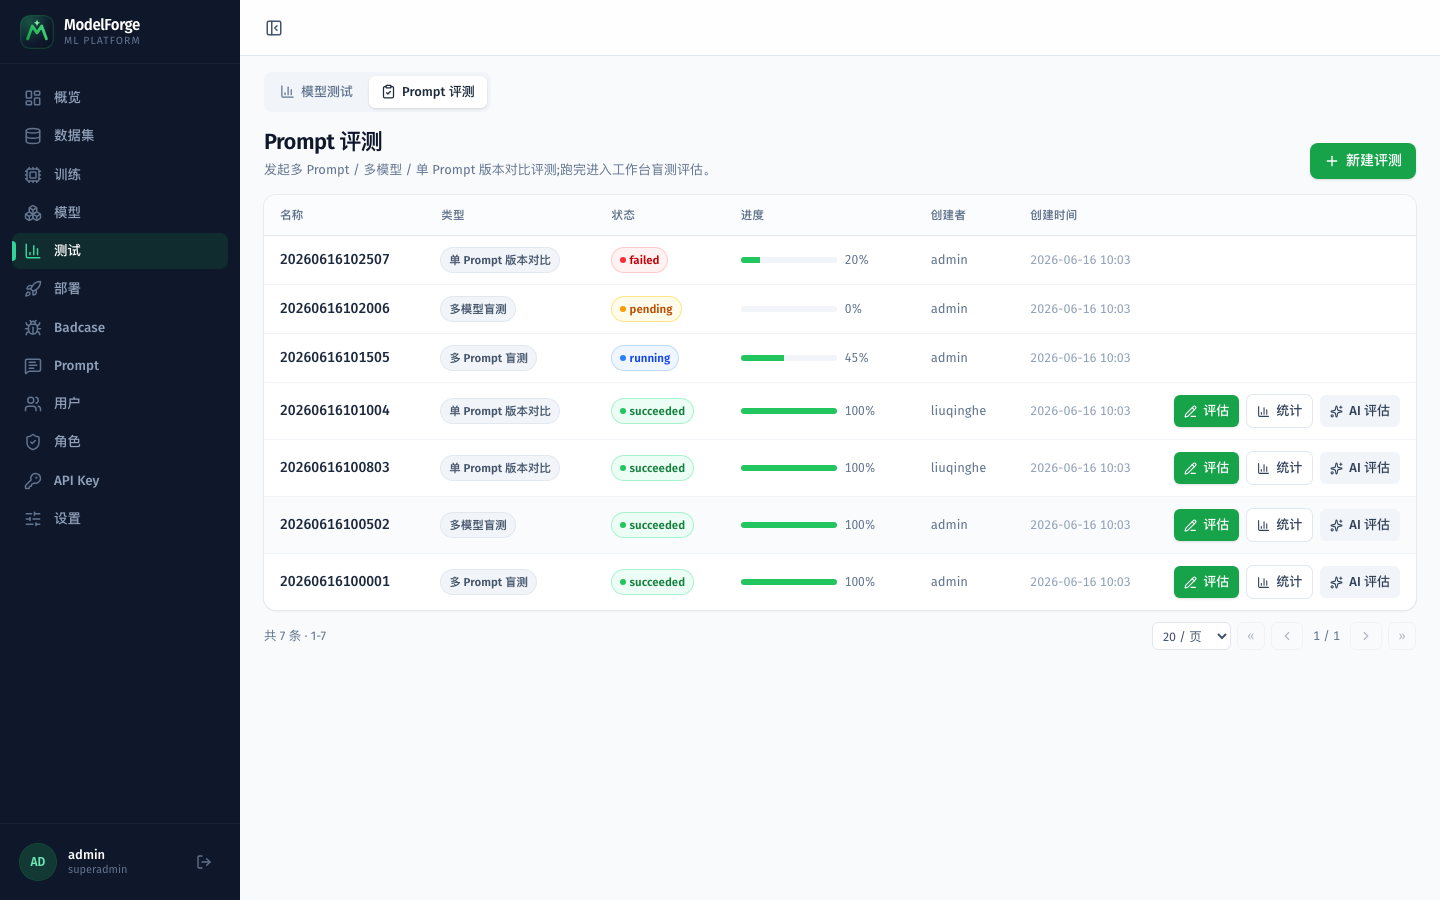
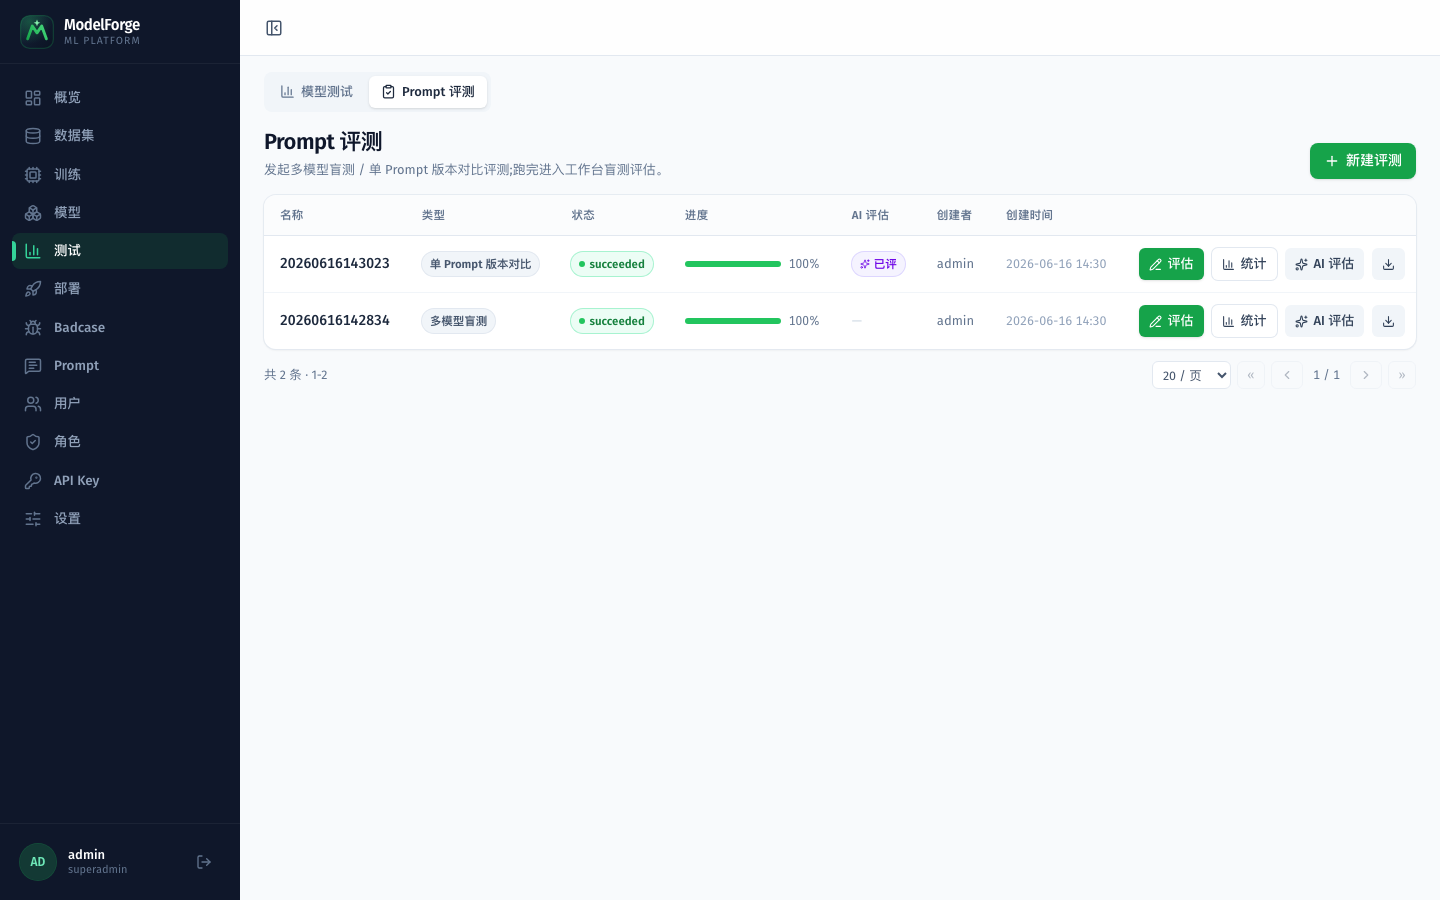
docs: 痛点分析 + 社区/项目地址 + Apache-2.0 协议 + 推荐文章
- README:开头加痛点小节(大模型贵、小模型场景、embedding 微调、流程碎、
  Prompt 对比难)、社区交流(linux.do)与项目地址/下载、快速开始加 git clone、
  末尾加开源协议小节
- LICENSE:Apache License 2.0(Copyright 2026 LingyiChen-AI)
- docs/推荐文章.md:面向社区/周刊的推荐文章(核心功能逐一介绍,图走 jsDelivr CDN)
- 刷新截图:模型测试列表(导出)、Prompt 评测(AI 列+导出)、盲测工作台(样本预览)

diff --git a/docs/推荐文章.md b/docs/推荐文章.md
@@ -1,0 +1,89 @@
+# ModelForge:给小团队用的「小模型微调 + 大模型 Prompt 评测」一站式平台
+
+> 开源地址:<https://github.com/LingyiChen-AI/ModelForge>
+
+这半年我一直在折腾同一个问题:**不是所有 NLP 任务都值得上大模型**。
+
+情感识别、意图分类、文本分类、命名实体识别(NER)、句子相似度这类活儿,一个几十 MB 的 BERT 小模型微调一下,**又快、又便宜、还能本地离线跑**,效果反而更稳定可控。可真要把「小模型」这条路走顺,你会发现处处是坑:数据要管版本、训练要搭环境、评估要写脚本、上线要自己拼、线上坏例还得回流再训练……
+
+于是我做了 **ModelForge**,把这一整条链路收进一个平台;后来又顺手把另一条常见链路也做了进来——**大模型 Prompt 评测**(用平台调外部 LLM API 给提示词做盲测,人工 + AI 双重打分;注意这条线**只评测、不微调大模型**)。
+
+![ModelForge 架构总览](https://cdn.jsdelivr.net/gh/LingyiChen-AI/images/ModelForge/images/2026/06/modelforge-architecture.png)
+
+## 它解决什么痛点
+
+- **大模型不总是最优解,成本却很高**:很多场景小模型微调就够,没必要每条请求都甩给大模型 API——既贵又慢,还得联网。
+- **通用 / 开源模型在你的领域不够准**:尤其是 embedding 向量模型,通用权重在垂直语料上召回总差一截,需要拿自己的数据微调才好用,而微调本身门槛就高。
+- **自建「训练 → 评估 → 上线」流程太碎**:数据、版本、训练、评估、部署、坏例回流,每一步都要自己拼脚本、搭环境。
+- **Prompt 效果对比根本不好做**:换个 Prompt、换个模型,到底变好还是变坏?多半靠肉眼比对 + 手写脚本跑批,没有盲测、没有统一指标、结果难复现也难沉淀。
+
+下面把核心功能逐一过一遍。
+
+![登录后的总览首页:按权限/数据范围实时聚合](https://cdn.jsdelivr.net/gh/LingyiChen-AI/images/ModelForge/images/2026/06/modelforge-dashboard.png)
+
+## 核心功能
+
+### 1. 数据集 · 版本管理
+
+训练集 / 评估集统一管理,每次提交都生成**不可变的全量快照**(parquet 落对象存储、带 checksum),保证训练随时可复现。支持 **CSV / JSONL / Excel** 导入,并能按任务类型一键下载对应格式的数据模板,省去对齐字段的来回试错。
+
+### 2. 模型训练:四类任务,开箱即用
+
+按任务类型分流训练 recipe,**文本分类、NER、句对相似度、检索向量(embedding)四类均已落地**。提交时先选基础模型(BERT / BGE / GTE 等分组目录),数据集**级联联动**——只列出格式匹配的版本,选错不了。训练过程有**实时进度条**,还能深链到 MLflow 看逐步 loss 曲线,实验与产物全程留痕。
+
+### 3. 模型测试 · Leaderboard · 预测结果导出
+
+对「模型版本 × 测试集版本」批量推理并自动算指标;在**同一测试集上横向对比**多个模型版本,就是一张现成的 Leaderboard。每次测试的**逐条预测都能一键导出成 Excel 表格**,真实标签与预测结果逐行对照,四类任务各按特点出列,复盘和交付都方便。
+
+![模型测试:Leaderboard + 逐条预测导出](https://cdn.jsdelivr.net/gh/LingyiChen-AI/images/ModelForge/images/2026/06/modelforge-model-test.png)
+
+![导出的预测结果表格](https://cdn.jsdelivr.net/gh/LingyiChen-AI/images/ModelForge/images/2026/06/modelforge-export.png)
+
+### 4. 模型版本管理 · 一键在线部署
+
+复用 MLflow Model Registry 做版本管理,支持手动**提升生命周期阶段**(未发布 / 预发布 / 生产 / 已归档)。满意的版本一键部署到推理服务,按任务类型自动暴露 `/predict`(分类、NER)、`/embed`(向量)、`/similarity`(句对)接口;每个部署都附带 **API 详情**(cURL 示例 + 输入输出说明),复制即用,还能随时停止 / 重启。
+
+### 5. Badcase 闭环修复
+
+线上业务通过接口(`X-Api-Key` 鉴权)把坏例回传,平台按模型版本归集。在**数据标注工作台**里逐条标注(主从两栏、未标注 / 未修复 / 已修复分桶、标注人与时间留痕),标完一键生成 `badcase-` 训练集回流再训练。再训练时还会**自动给这些坏例打分**,把已修复的标回去,并在指标里给出 **badcase 修复率**——形成「上报 → 标注 → 再训练 → 验证修复」的闭环。
+
+### 6. 大模型 Prompt 评测(差异化亮点)
+
+接入 LLM 供应商(OpenAI 协议)→ 把提示词做成**可版本管理的不可变模板**(`{{ 参数 }}` 占位)→ 复用数据集当测试集发起评测(多模型盲测 / 单 Prompt 版本对比)。
+
+最关键的是**盲测设计**:界面只显示 A / B / C、隐藏版本,而且 A/B/C 在整轮内**固定对应同一候选**(避免你被版本号带偏),版本只在统计页揭晓——「我每条都选 A」就等于「始终偏好同一个候选」,结论可解释。除了人工盲评,还能让某个 LLM 当「评判员」做 **AI 自动评估**(强制 JSON 输出、并发执行、进度实时可见),与人工结论并存、互不覆盖;统计页同时给出**人工 + AI 两套指标**(各候选胜率 / 最优、单 Prompt 好评率与对上一版本的变好 / 变坏率)。
+
+![Prompt 评测列表:人工 + AI 双评、进度可见、一键导出](https://cdn.jsdelivr.net/gh/LingyiChen-AI/images/ModelForge/images/2026/06/modelforge-prompt-eval-list.png)
+
+![盲测工作台:只见 A/B/C,版本隐藏](https://cdn.jsdelivr.net/gh/LingyiChen-AI/images/ModelForge/images/2026/06/modelforge-prompt-blind-eval.png)
+
+### 7. 认证与 RBAC
+
+JWT 登录 + 自定义角色(在固定权限目录上自由组合)+ 角色级**数据范围**(`all` / `own`,`own` 只看 / 改自己创建的资源);超管管理用户与角色。机器对机器调用走 `X-Api-Key`,内部回调走 `X-Internal-Token`,边界清晰。
+
+## 技术栈
+
+- **后端**:FastAPI(app-server)+ Celery(ml-worker,跑训练 / 评估 / Prompt 评测 / Badcase 打分)+ FastAPI(model-server,在线推理)
+- **前端**:React + TypeScript + Vite + Tailwind
+- **基础设施**:PostgreSQL / Redis / MinIO / MLflow,四服务职责单一、解耦易扩展
+
+## 快速开始
+
+```bash
+git clone https://github.com/LingyiChen-AI/ModelForge.git
+cd ModelForge
+docker compose up -d            # PG / Redis / MinIO / MLflow
+# 然后按 README 安装依赖、初始化数据库、启动三端服务
+```
+
+完整步骤见仓库 README:<https://github.com/LingyiChen-AI/ModelForge>(Apache-2.0 开源)。
+
+## 写在最后
+
+ModelForge 适合**有自己数据、想把小模型这条路走顺**的小团队:不追求大而全,只把「数据 → 训练 → 评估 → 部署 → 闭环」和「Prompt 盲测评估」这两件最常用的事做扎实。欢迎到仓库点 Star / 提 Issue,也欢迎拍砖:<https://github.com/LingyiChen-AI/ModelForge>
+
+---
+
+### 附:阮一峰周刊投稿一句话版
+
+> **ModelForge**([GitHub](https://github.com/LingyiChen-AI/ModelForge)):面向小团队的开源 NLP 模型平台。把 BERT 类小模型的「数据集版本管理 → 训练 → 评估 → 在线部署 → Badcase 闭环」做成一站式流程(支持文本分类、NER、句对相似度、检索向量四类任务),并内置**大模型 Prompt 评测**——多模型 / 多版本提示词盲测,人工 + AI 自动评估双指标。技术栈 FastAPI + Celery + React + MLflow,Apache-2.0。

diff --git a/README.md b/README.md
@@ -1,8 +1,23 @@
 # ModelForge
 
+> 💬 **社区交流**:[linux.do](https://linux.do/)
+>
+> 📦 **项目地址 / 下载**:[github.com/LingyiChen-AI/ModelForge](https://github.com/LingyiChen-AI/ModelForge)
+
 小团队内部使用的 **NLP 模型训练与服务平台**,围绕 BERT 架构类编码器模型(**不做大模型微调,不做图像**)。提供训练集/评估集管理与版本管理、训练流程、评估流程、模型版本管理、在线推理部署,以及面向大模型应用的 **Prompt 评测**(调用外部 LLM API 做盲测人工评估 + AI 自动评估,**仍不微调大模型**)。
 
 ![ModelForge 架构总览](images/architecture.png)
+
+## 为什么做 ModelForge(痛点)
+
+小团队做 NLP,常卡在这几件事上:
+
+- **大模型不总是最优解,成本却很高**:很多场景用小模型就能又快又省、可本地化、低延迟离线跑 —— 比如**情感识别、意图分类、文本/多标签分类、命名实体识别(NER)、句子/语义相似度、检索召回**。每个都甩给大模型 API,既贵又慢,还得联网。
+- **通用 / 开源模型在你的领域不够准**:尤其是 **embedding 向量模型**,通用权重在垂直语料上召回总差一截,需要拿自己的数据**微调**才好用 —— 而微调这件事本身门槛就高。
+- **自建「训练 → 评估 → 上线」流程太碎**:数据清洗、版本管理、训练、指标评估、模型版本、在线部署、坏例回流…… 每一步都要自己拼脚本、搭环境,缺一个**一站式**平台。
+- **Prompt 效果对比根本不好做**:换个 Prompt、换个模型,到底变好还是变坏?现在多半靠**肉眼比对 + 手写脚本跑批**,没有盲测(易被版本偏见带偏)、没有统一指标、结果难复现也难沉淀。
+
+**ModelForge 就是来收掉这些痛点的**:把 **小模型一站式微调**(数据 → 训练 → 评估 → 部署 → Badcase 闭环)和 **大模型 Prompt 评测**(盲测人工 + AI 自动评估)两条链路,做进同一个平台。
 
 ## 功能
 
@@ -155,6 +170,13 @@ ModelForge/
 
 ## 快速开始
 
+### 0. 克隆项目
+
+```bash
+git clone https://github.com/LingyiChen-AI/ModelForge.git
+cd ModelForge
+```
+
 ### 1. 启动基础设施
 
 ```bash
@@ -287,3 +309,7 @@ model-server(默认 `:8001`)推理端点:`POST /load`、`POST /predict`、`POST 
 后续可做(均超出当前范围):per-sample 评估明细落盘、部署灰度/多副本、更细的 RBAC/配额、大数据集增量版本、Badcase 自动触发再训练。
 
 详见实现计划:[基础地基](docs/superpowers/plans/2026-06-13-modelforge-foundation.md)、[评估流程](docs/superpowers/plans/2026-06-13-modelforge-evaluation.md)、[recipes](docs/superpowers/plans/2026-06-13-modelforge-recipes.md)、[在线部署](docs/superpowers/plans/2026-06-13-modelforge-deployment.md)。
+
+## 开源协议
+
+本项目基于 [Apache License 2.0](LICENSE) 开源。